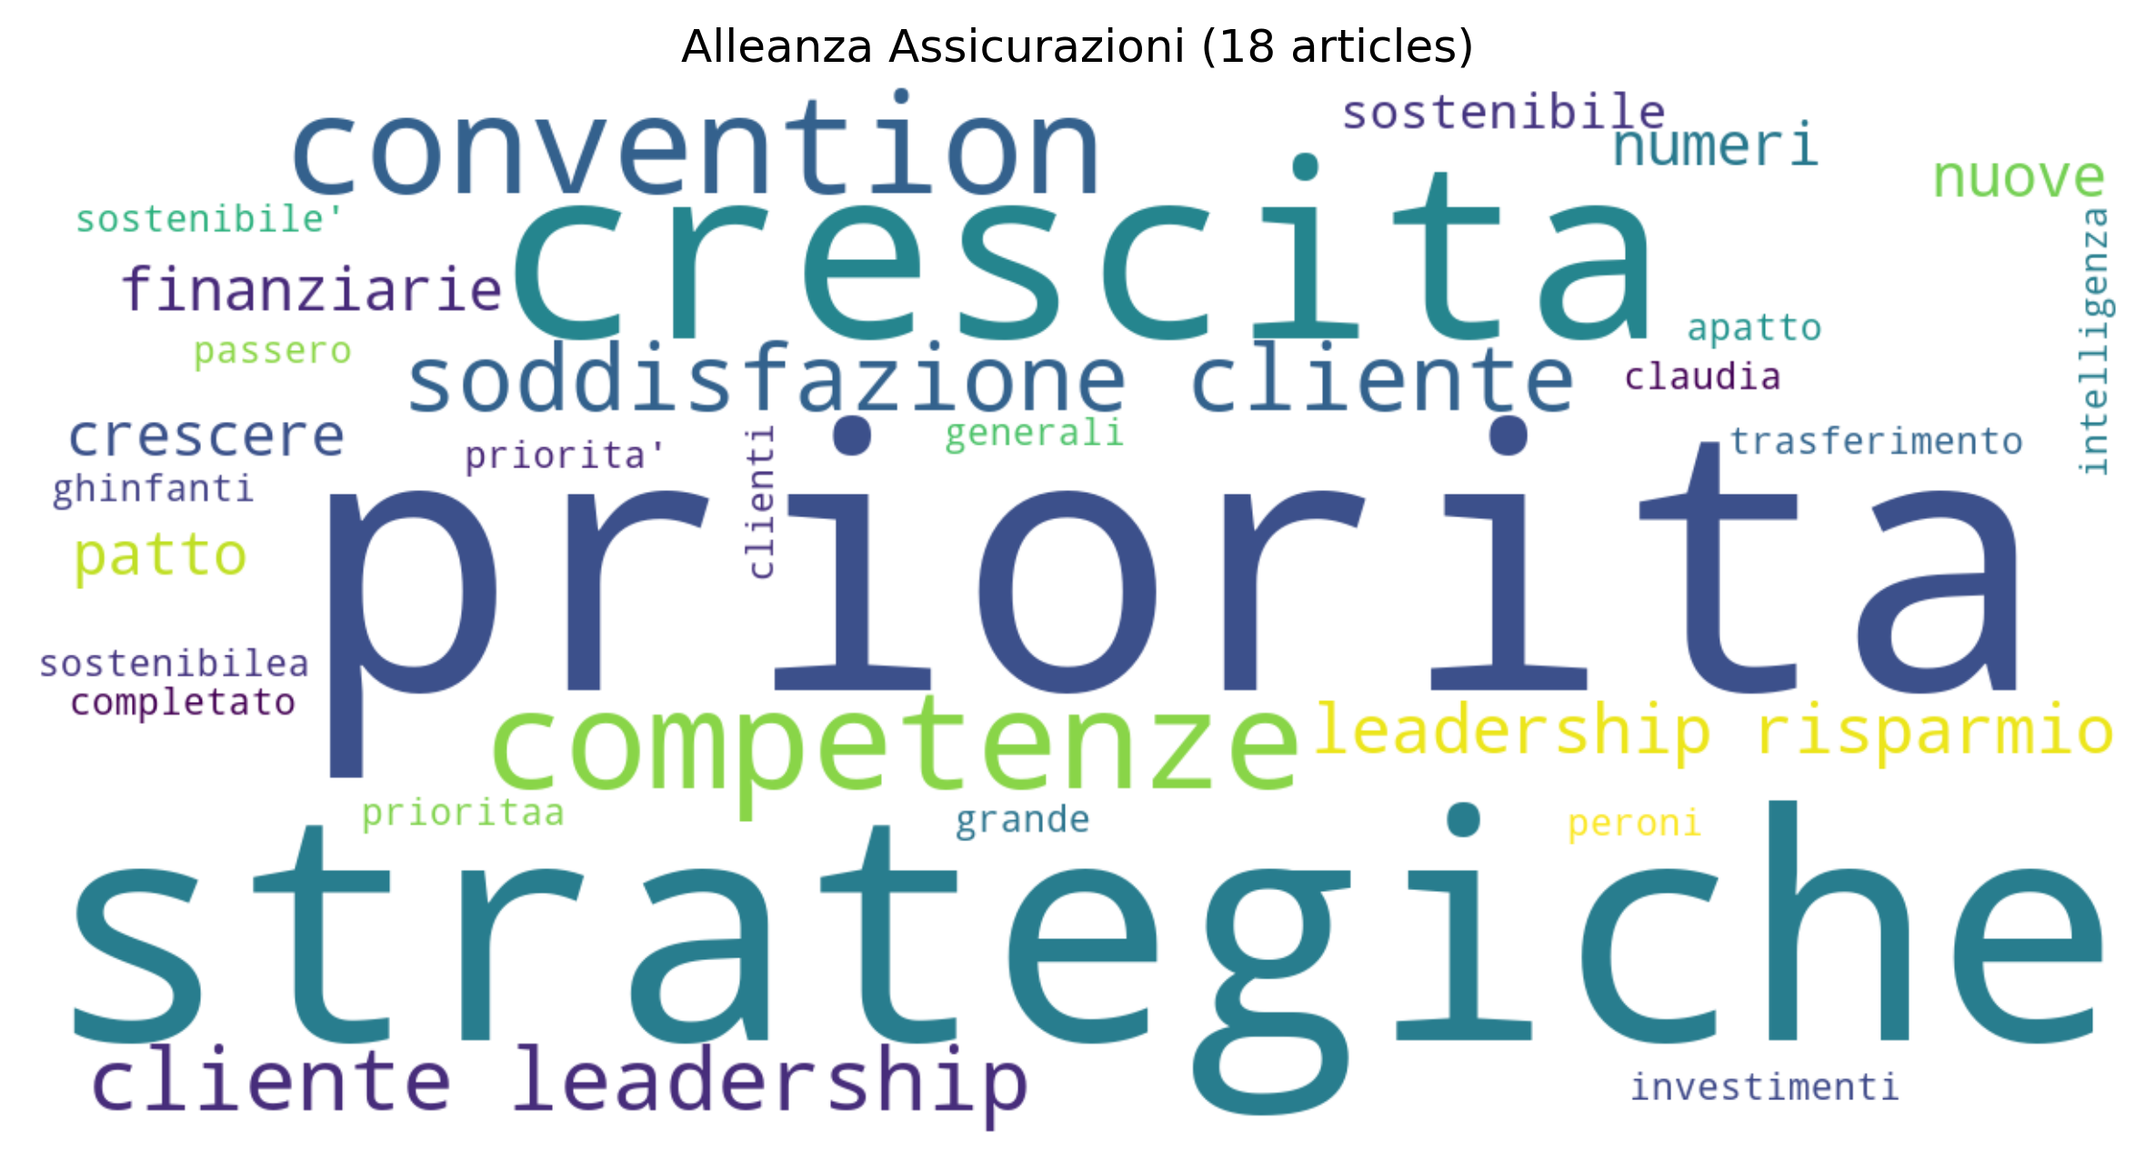
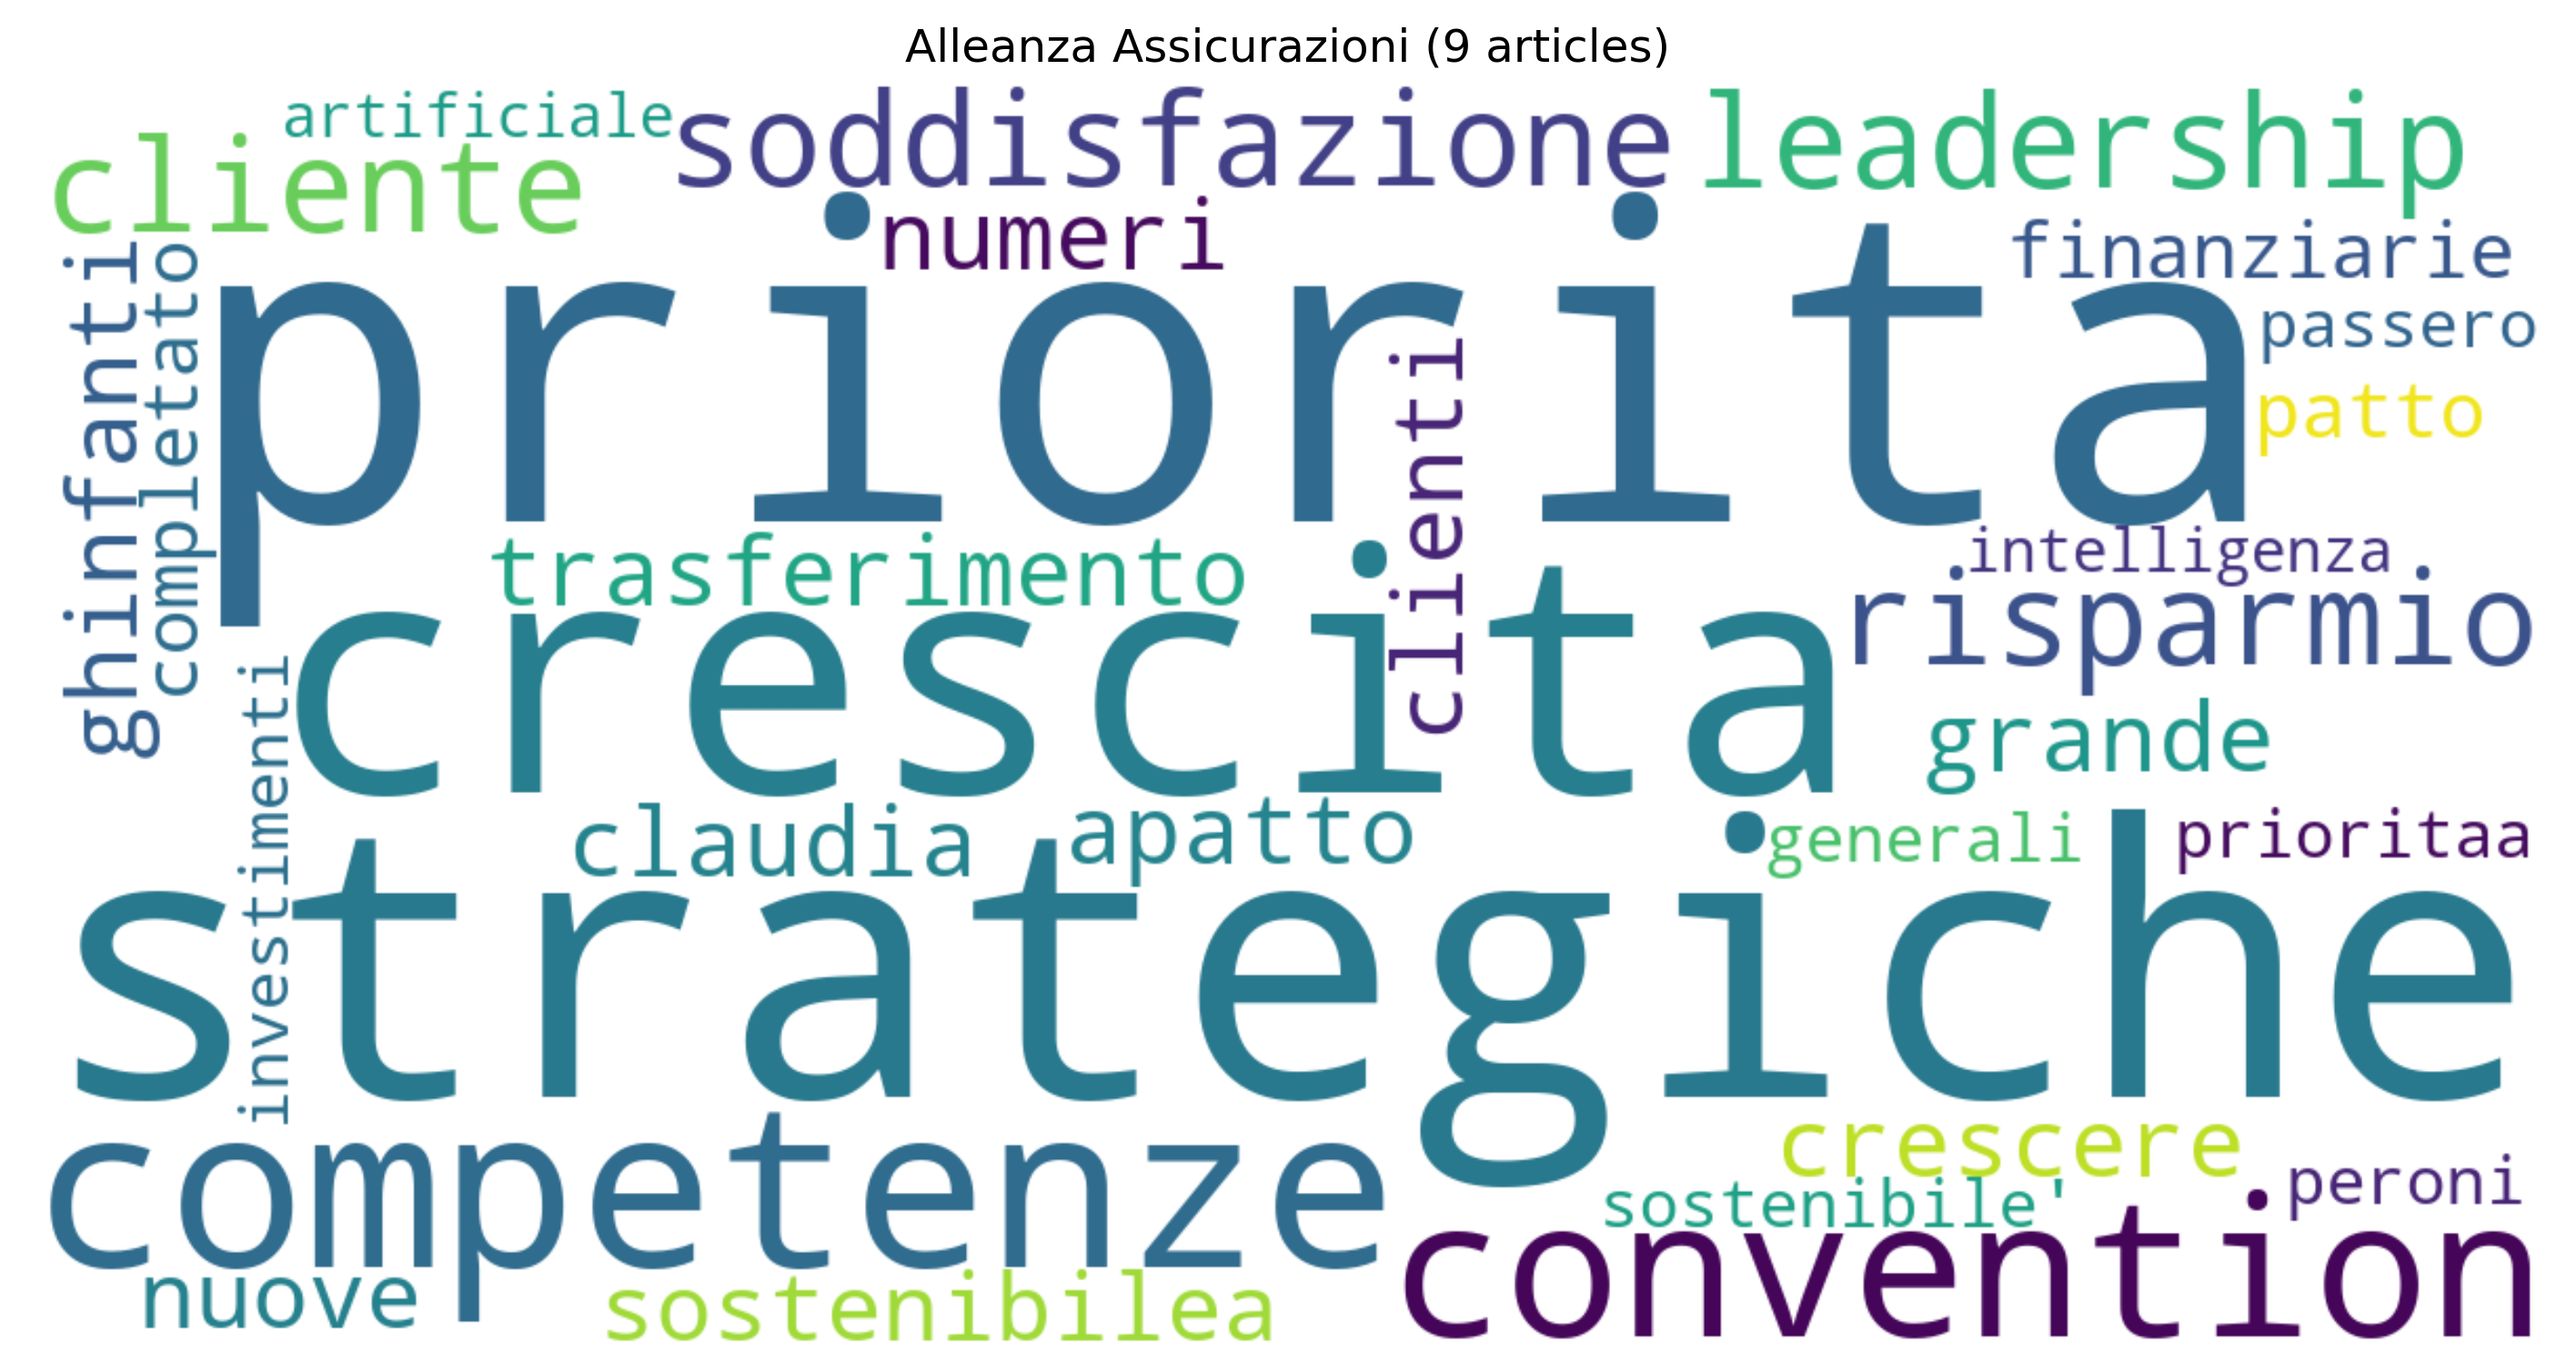
Fix word cloud generation to match validation script article counts

diff --git a/company_news_analysis.py b/company_news_analysis.py
@@ -1,7 +1,7 @@
 import os
 import json
 from datetime import datetime, timedelta
-from collections import Counter
+from collections import Counter, defaultdict
 from GoogleNews import GoogleNews
 import requests
 from bs4 import BeautifulSoup
@@ -21,6 +21,7 @@ import time
 import random
 import csv
 import unicodedata
+import re
 
 # Load environment variables
 load_dotenv()
@@ -1055,8 +1056,8 @@ def read_url_mappings():
                 title = normalize_text(row['Article Title'])
                 existing_titles.add(title)
                 
-                if row['Original URL']:
-                    url_mappings[row['Original URL']] = {
+                if row['Master URL for HTML']:
+                    url_mappings[row['Master URL for HTML']] = {
                         'human_validated_url': row['Human Validated URL'],
                         'master_url': row['Master URL for HTML'],
                         'source': row['Source']
@@ -1104,7 +1105,7 @@ def save_url_analysis(articles, url_mappings, existing_titles, last_id):
         human_validated_url = mapping.get('human_validated_url', '')
         
         # Determine master URL and source
-        if human_validated_url and human_validated_url.lower() != 'no':
+        if human_validated_url and human_validated_url.upper() not in ['NO', 'DUPLICATE', 'FALSE_POSITIVE']:
             master_url = human_validated_url
             source = 'Human'
         else:
@@ -1252,10 +1253,96 @@ def fetch_news():
     return google_news, newsapi_news
 
 if __name__ == "__main__":
-    print("Fetching news articles...")
-    google_news, newsapi_news = fetch_news()
+    print("Reading validated articles from CSV...")
     
-    print("\nGenerating report...")
-    report_path = generate_report(google_news, newsapi_news)
+    # Read articles from CSV
+    articles_by_company = defaultdict(list)
+    valid_article_count = defaultdict(int)
     
-    print(f"\nReport generated successfully at: {report_path}") 
+    # Track lowest ID for each normalized title to avoid duplicates
+    title_to_lowest_id = {}
+    title_to_data = {}
+    
+    def normalize_title(title):
+        """Normalize title for comparison by removing special characters, accents, and whitespace."""
+        # Convert to lowercase
+        title = title.lower()
+        
+        # Replace accented characters
+        replacements = {
+            'à': 'a', 'è': 'e', 'é': 'e', 'ì': 'i', 'ò': 'o', 'ù': 'u',
+            'a\'': 'a', 'e\'': 'e', 'i\'': 'i', 'o\'': 'o', 'u\'': 'u',
+            'aa': 'a', 'ee': 'e', 'ii': 'i', 'oo': 'o', 'uu': 'u'
+        }
+        for old, new in replacements.items():
+            title = title.replace(old, new)
+        
+        # Remove ellipsis variations
+        title = re.sub(r'\.{3,}$', '', title)
+        title = re.sub(r'\s*\.\.\.$', '', title)
+        title = re.sub(r'\s*…$', '', title)
+        
+        # Remove special characters but keep spaces between words
+        title = re.sub(r'[^\w\s]', '', title)
+        
+        # Normalize whitespace
+        title = ' '.join(title.split())
+        
+        # Remove common article variations
+        title = re.sub(r'\s+\-\s+.*$', '', title)  # Remove subtitles after dash
+        title = re.sub(r'\s+\|\s+.*$', '', title)  # Remove subtitles after pipe
+        
+        return title
+    
+    # First pass: Find lowest ID for each title
+    with open('url_analysis.csv', 'r', encoding='utf-8', newline='') as f:
+        reader = csv.DictReader(f, delimiter=';')
+        for row in reader:
+            if row['Master URL for HTML']:  # Only consider rows with Master URL
+                title = normalize_title(row['Article Title'])
+                current_id = int(row['ID'])
+                if title not in title_to_lowest_id or current_id < title_to_lowest_id[title]:
+                    title_to_lowest_id[title] = current_id
+                    title_to_data[title] = {
+                        'id': current_id,
+                        'title': row['Article Title'],
+                        'url': row['Master URL for HTML'],
+                        'company': row['Company']
+                    }
+    
+    # Second pass: Collect unique articles with lowest IDs
+    with open('url_analysis.csv', 'r', encoding='utf-8', newline='') as f:
+        reader = csv.DictReader(f, delimiter=';')
+        for row in reader:
+            if row['Master URL for HTML']:
+                company = row['Company']
+                title = normalize_title(row['Article Title'])
+                current_id = int(row['ID'])
+                
+                # Only add if this is the lowest ID for this title
+                if current_id == title_to_lowest_id[title]:
+                    articles_by_company[company].append(title_to_data[title])
+                    valid_article_count[company] += 1
+    
+    print("\nGenerating word clouds from validated articles...")
+    for company in COMPANY_NAMES:
+        articles = articles_by_company[company]
+        if articles:
+            print(f"\nProcessing {valid_article_count[company]} articles for {company}")
+            # Combine all text for the company
+            text = ' '.join(article['title'] for article in articles)
+            # Generate and save word cloud
+            wordcloud = generate_word_cloud(text, company)
+            plt.figure(figsize=(12, 6))
+            plt.imshow(wordcloud, interpolation='bilinear')
+            plt.axis('off')
+            plt.title(f'{company} ({valid_article_count[company]} articles)')
+            plt.savefig(f'wordcloud_{company.replace(" ", "_")}.png', 
+                        bbox_inches='tight',
+                        dpi=300,
+                        facecolor='white',
+                        edgecolor='none')
+            plt.close()
+            print(f"Word cloud generated for {company}")
+    
+    print("\nWord clouds generated successfully!") 
